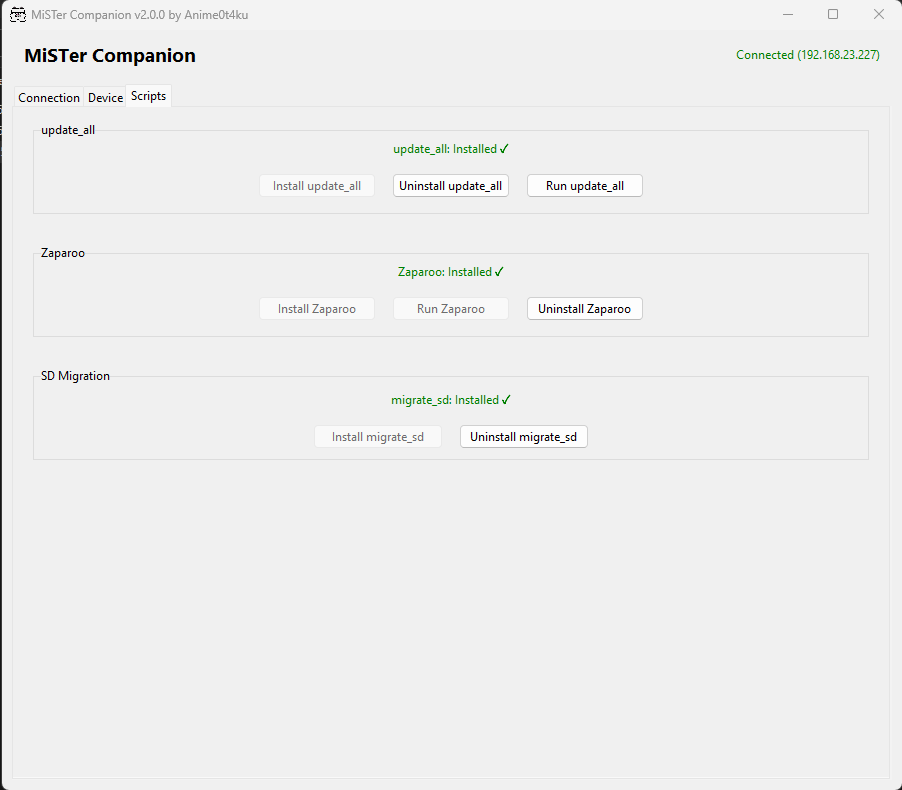
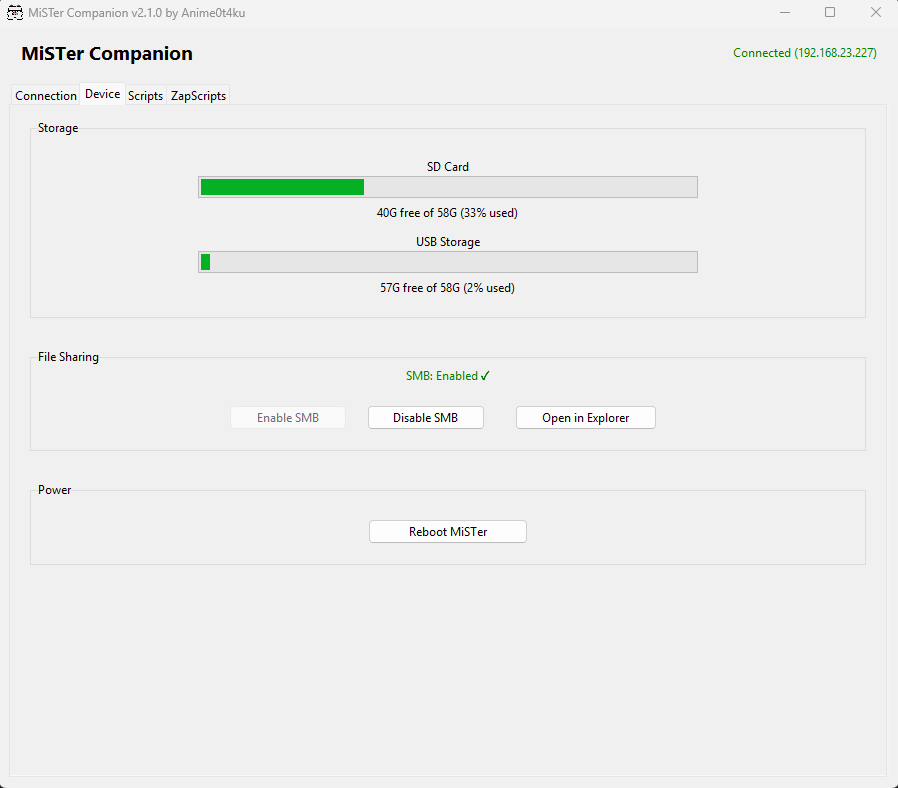
v2.1.0
Updated Screenshot and Readme

diff --git a/readme.md b/readme.md
@@ -10,6 +10,7 @@ Supports:
 - Storage usage monitoring (SD and USB)
 - update_all installation and execution
 - Zaparoo installation and setup
+- ZapScripts launcher via Zaparoo Core API
 - SD migration tool (migrate_sd) installer
 - SMB enable / disable
 - Open MiSTer share in Windows Explorer
@@ -43,6 +44,14 @@ MiSTer Companion uses a **tabbed interface** to organize functionality.
 - Install **Zaparoo**
 - Install **migrate_sd** (SD card migration utility)
 - View **live SSH output** when running scripts
+
+### ZapScripts
+- Run **update_all** via the Zaparoo Core API
+- Run **migrate_sd** via the Zaparoo Core API
+- Open **Bluetooth menu**
+- Open **MiSTer OSD menu**
+- Cycle **wallpaper**
+- Return to **MiSTer home**
 
 ---
 
@@ -89,11 +98,12 @@ If running the script directly:
 - Tkinter (usually included)
 - paramiko
 - requests
+- websocket-client
 
 Install dependencies:
 
 ```
-pip install paramiko requests
+pip install paramiko requests websocket-client
 ```
 
 Run with:
